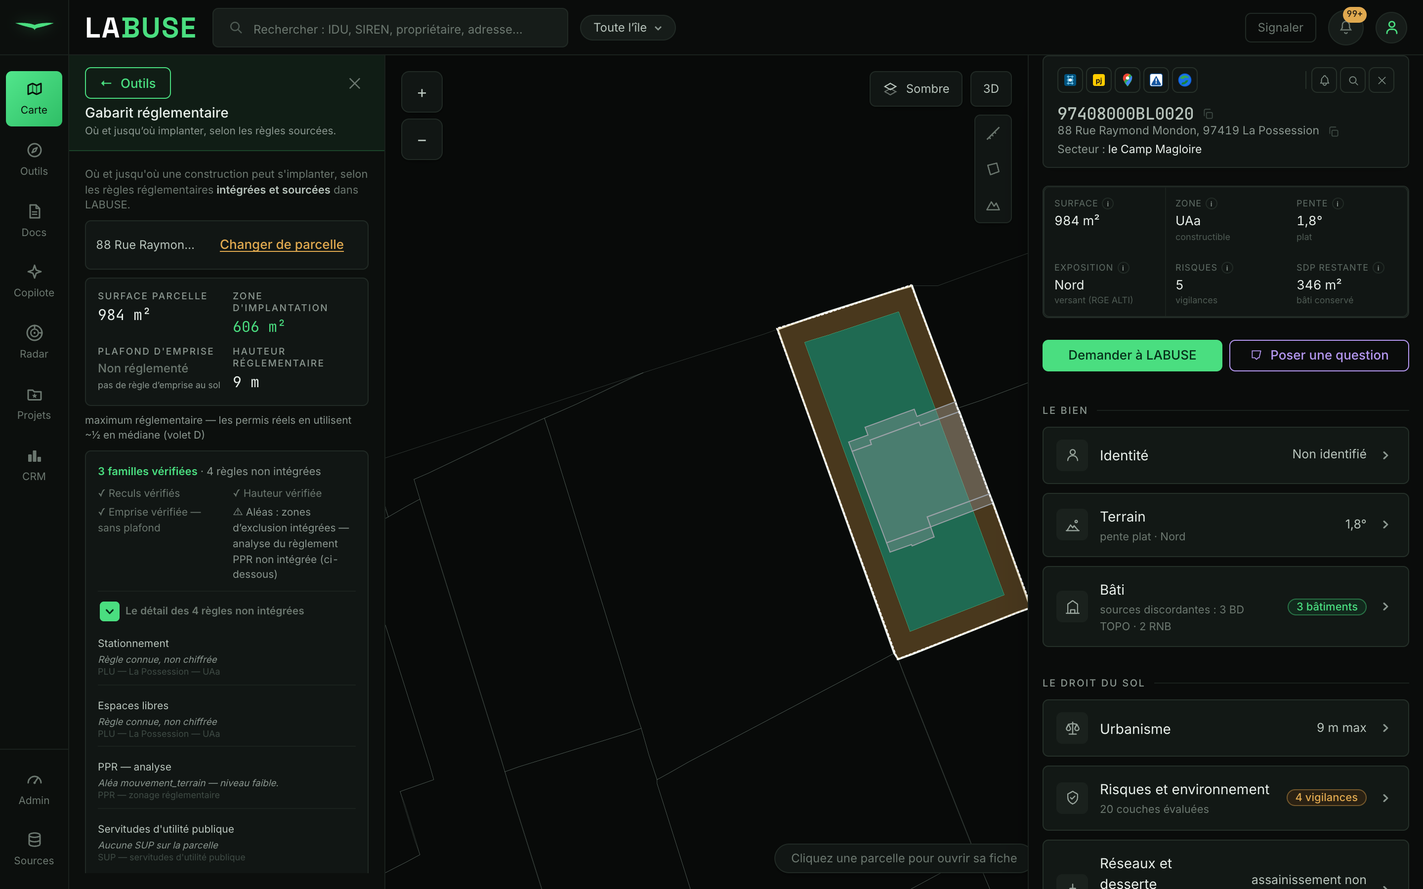
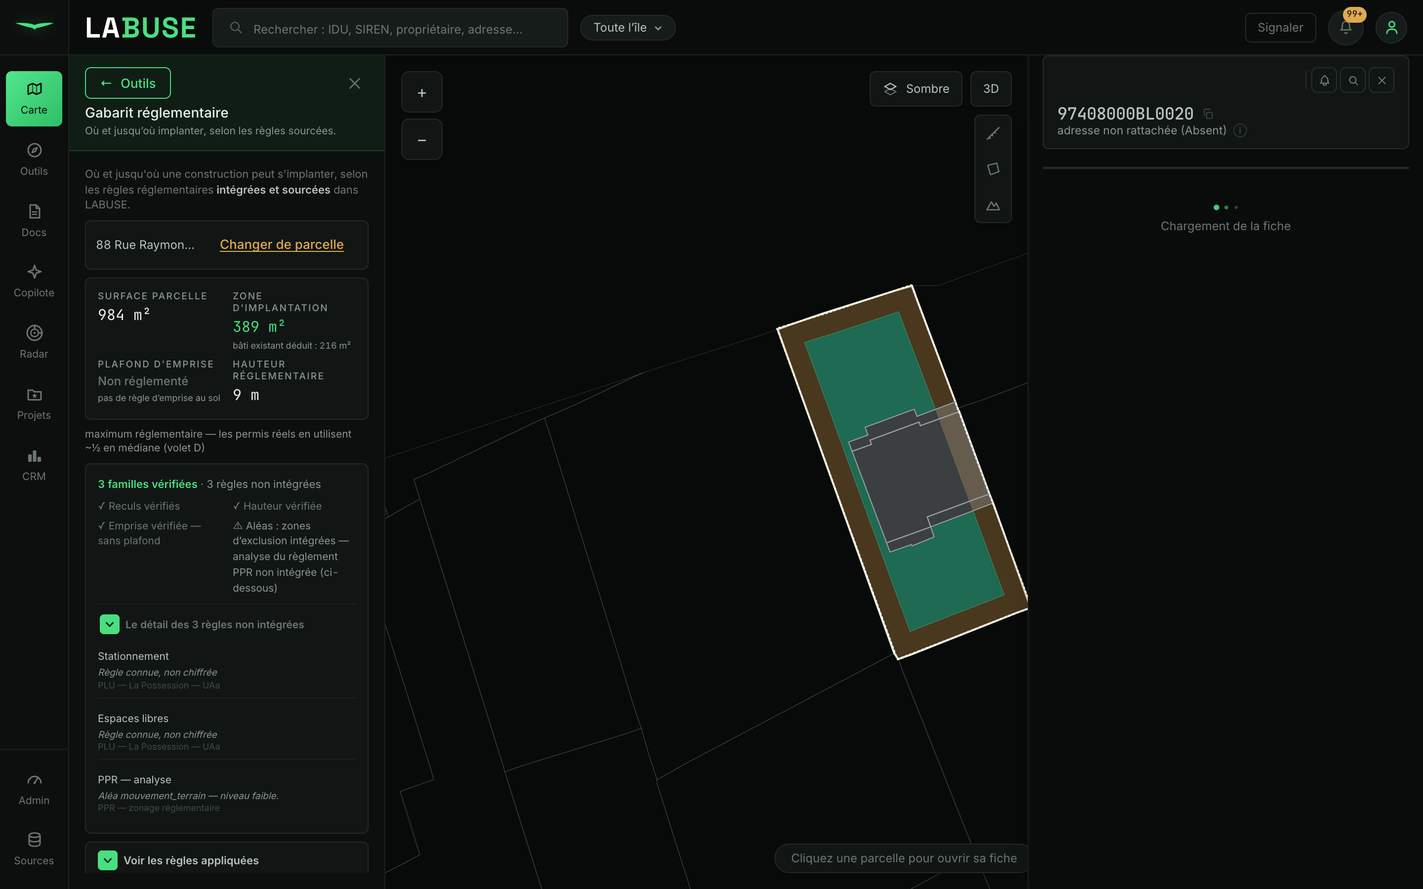
RECETTE-OUTILS-3 — Lot B : S7-S11 (Gabarit)
S7 — zone d'implantation DÉDUIT le bâti existant conservé (deduire_bati_de_zone,
     réf unique app 2D/3D + PDF p1/p3). Chiffre après déduction + « bâti déduit X m² »
     (nouveau gabarit_bati_deduit_m2, déclaré registre+robinet). CM1658 176→130, 46.
S8 — PDF p1 schéma dessine le bâti (_rings gère FeatureCollection).
S9 — 3D extrude la géométrie S7 (volume, pas plaque) — vérifié CM1658 + BL0020.
S10 — bâti découpé au contour : 36,5%→0% hors contour, zone∩bâti 26,3%→0%.
S11 — contrôle 3D (↺/↻ 45°, curseur inclinaison, ◎ recentrer) remplace la boussole,
      visible en 3D, charte ; panneau : Vue par défaut retiré, 2D+PDF côte à côte.

tsc + vitest 280 ; pytest gabarit/exports/registre/verrous 339.

diff --git a/frontend/src/components/map/MapView.tsx b/frontend/src/components/map/MapView.tsx
@@ -379,6 +379,37 @@ interface Measure {
 // M55-G point 13 — BOUTON DE CARTE MOMENTANÉ (zoom +/−…) : au clic, flash mint ~180 ms puis
 // retour — un feedback d'APPUI, pas un état. Les bascules à état (3D, fond, outils) gardent
 // leur état persistant comme feedback ; ce patron est pour les boutons sans état.
+// RECETTE-OUTILS-3 (S11) — bloc de contrôle 3D (remplace la boussole R14) : visible seulement en 3D,
+// dans un coin de la carte, DA de la charte. ↺/↻ = rotation 45° par clic ; curseur vertical =
+// inclinaison (vue de dessus 0° → vue rasante 60°) ; ◎ = recentrer sur la parcelle à l'angle de départ
+// (délègue au propriétaire de la caméra, le Gabarit, via `recentrer3d`). Ctrl + glisser reste actif.
+function Controle3D({ map }: { map: React.RefObject<maplibregl.Map | null> }) {
+  const [pitch, setPitch] = useState(45)
+  useEffect(() => {
+    const m = map.current
+    if (!m) return
+    const upd = () => setPitch(Math.round(m.getPitch()))
+    upd(); m.on('pitch', upd)
+    return () => { m.off('pitch', upd) }
+  }, [map])
+  const roter = (deg: number) => { const m = map.current; if (m) m.easeTo({ bearing: m.getBearing() + deg, duration: 300 }) }
+  const incliner = (p: number) => { const m = map.current; if (m) m.easeTo({ pitch: p, duration: 120 }); setPitch(p) }
+  const btn = 'flex h-8 w-8 items-center justify-center rounded-md border border-line-2 bg-bg-2 text-[16px] leading-none text-txt transition-colors duration-quick hover:border-mint hover:text-mint focus-visible:border-mint focus-visible:text-mint focus-visible:outline-none'
+  return (
+    <div data-controle-3d className="absolute bottom-4 left-4 z-20 flex flex-col items-center gap-1.5 rounded-lg border border-line-2 bg-bg-2/90 p-1.5 shadow-elev-1 backdrop-blur-sm">
+      <div className="flex gap-1.5">
+        <button data-c3d-rot-g className={btn} title="Tourner à gauche (45°)" onClick={() => roter(-45)}>↺</button>
+        <button data-c3d-rot-d className={btn} title="Tourner à droite (45°)" onClick={() => roter(45)}>↻</button>
+      </div>
+      <input data-c3d-pitch type="range" min={0} max={60} step={1} value={pitch} aria-label="Inclinaison de la vue"
+        title="Inclinaison : vue de dessus → vue rasante"
+        onChange={(e) => incliner(Number(e.target.value))}
+        className="my-0.5 h-24 w-8 cursor-pointer accent-mint [direction:rtl] [writing-mode:vertical-lr]" />
+      <button data-c3d-recentrer className={btn} title="Recentrer sur la parcelle" onClick={() => useApp.getState().recentrer3d()}>◎</button>
+    </div>
+  )
+}
+
 function BoutonCarte({ onClick, title, children }: { onClick: () => void; title: string; children: React.ReactNode }) {
   const [flash, setFlash] = useState(false)
   const timer = useRef<number | null>(null)
@@ -429,11 +460,6 @@ export function MapView() {
   // et on l'AFFICHE (« 3D indisponible : … ») au lieu d'un écran vide. null = pas d'erreur 3D.
   const [erreur3d, setErreur3d] = useState<string | null>(null)
   const terrain3dCleanup = useRef<(() => void) | null>(null)
-  // RECETTE-OUTILS-2 (R14) — boussole 3D : le contrôle NATIF de maplibre (NavigationControl avec
-  // `visualizePitch`), restylé à la charte (CSS), monté SEULEMENT en 3D, démonté au retour 2D.
-  // Glisser la boussole tourne/incline ; clic = retour au nord ; +/− = zoom natif. « Vue par défaut »
-  // (panneau Gabarit) reste le recadrage complet.
-  const boussole3d = useRef<maplibregl.NavigationControl | null>(null)
   const measureRef = useRef(measure)
   measureRef.current = measure
   const labelMarker = useRef<maplibregl.Marker | null>(null)
@@ -1265,28 +1291,18 @@ export function MapView() {
       }
       chargerBati()
       m.on('moveend', chargerBati)
-      // RECETTE-OUTILS-2 (R14) — monter la boussole native (si pas déjà là). Posée en BAS-GAUCHE : la
-      // fiche parcelle couvre le bas-droite et le bascule « Sombre / 3D » occupe le haut ; le bas-gauche
-      // de la carte (juste à droite du panneau Outils) est le coin dégagé. Restylée à la charte en CSS.
-      if (!boussole3d.current) {
-        boussole3d.current = new maplibregl.NavigationControl({ visualizePitch: true, showZoom: true, showCompass: true })
-        m.addControl(boussole3d.current, 'bottom-left')
-        try { m.getContainer().querySelector('.maplibregl-ctrl-bottom-left')?.classList.add('labuse-nav3d') } catch { /* noop */ }
-      }
+      // RECETTE-OUTILS-3 (S11) — la boussole native (R14) est REMPLACÉE par le bloc de contrôle 3D
+      // `Controle3D` (overlay React, coin de carte, visible seulement en 3D) : ↺/↻ 45°, curseur
+      // d'inclinaison, « Recentrer ». Plus de NavigationControl à monter/démonter ici.
     } else {
       m.setTerrain(null)
       m.easeTo({ pitch: 0, duration: 600 })
-      if (boussole3d.current) { try { m.removeControl(boussole3d.current) } catch { /* noop */ } boussole3d.current = null }
       if (m.getLayer('batiments-3d')) m.setLayoutProperty('batiments-3d', 'visibility', 'none')
       // CORRECTIFS-1 C1 — retour en 2D : on nettoie les écoutes 3D et le message d'erreur éventuel.
       setErreur3d(null)
       terrain3dCleanup.current?.(); terrain3dCleanup.current = null
     }
-    return () => {
-      m.off('moveend', chargerBati); terrain3dCleanup.current?.(); terrain3dCleanup.current = null
-      // R14 — démontage (sortie du composant) : ne JAMAIS laisser la boussole orpheline.
-      if (!useApp.getState().terrain3d && boussole3d.current) { try { m.removeControl(boussole3d.current) } catch { /* noop */ } boussole3d.current = null }
-    }
+    return () => { m.off('moveend', chargerBati); terrain3dCleanup.current?.(); terrain3dCleanup.current = null }
   }, [terrain3d, batiVisible])
 
   // ───────────────────────── couches / filtres / mode ─────────────────────────
@@ -1810,6 +1826,8 @@ export function MapView() {
           </BoutonCarte>
         ))}
       </div>
+      {/* RECETTE-OUTILS-3 (S11) — bloc de contrôle 3D (↺/↻ · inclinaison · recentrer), seulement en 3D. */}
+      {terrain3d && <Controle3D map={map} />}
       <MapToolbar />
       {/* M12 C6/C7 : UN SEUL panneau de légendes (verdict replié + zonage + 50 pas +
           équipements), cohabitant sans se recouvrir. La légende « Équipements » a quitté son

diff --git a/frontend/src/components/outils/Gabarit.tsx b/frontend/src/components/outils/Gabarit.tsx
@@ -229,6 +229,11 @@ export function Gabarit() {
     if (bb) m.fitBounds(bb, { padding: 70, bearing: 0, pitch: 45, duration: 600, maxZoom: 18 })
     else m.easeTo({ bearing: 0, pitch: 45, duration: 600 })
   }
+  // RECETTE-OUTILS-3 (S11) — le bouton « Recentrer » (◎) du bloc de contrôle 3D de la carte demande au
+  // Gabarit (propriétaire de la caméra) de reprendre la vue de départ : même recadrage que « Vue par
+  // défaut », désormais déclenché par la carte.
+  const recentrer3dNonce = useApp((s) => s.recentrer3dNonce)
+  useEffect(() => { if (recentrer3dNonce && terrain3d) vueParDefaut() }, [recentrer3dNonce])   // eslint-disable-line react-hooks/exhaustive-deps
 
   // RECETTE-OUTILS-1 (point 31) — lever la contradiction « ✓ Risques intégrés » vs « PPR — analyse »
   // listé parmi les règles NON intégrées : si une règle PPR est non intégrée, la famille « risques » ne
@@ -330,7 +335,10 @@ export function Gabarit() {
               ? <Num label="Surface parcelle" value={cadastreM2} unit="m²"
                   sub={`dont ${fmtInt(res.surfaceParcelleM2)} m² en ${raccZone?.code ?? 'zone U'} (${pctPortion} %)`} />
               : <Num label="Surface parcelle" value={res.surfaceParcelleM2} unit="m²" />}
-            <Num label="Zone d'implantation" value={res.zoneImplantationM2} unit="m²" accent />
+            {/* RECETTE-OUTILS-3 (S7) — « Zone d'implantation » = valeur APRÈS déduction du bâti existant ;
+                juste en dessous l'emprise retranchée (si bâti conservé). */}
+            <Num label="Zone d'implantation" value={res.zoneImplantationM2} unit="m²" accent
+              sub={res.batiDeduitM2 ? `bâti existant déduit : ${fmtInt(res.batiDeduitM2)} m²` : null} />
             <Num label="Plafond d'emprise" value={res.plafondEmpriseM2} unit="m²"
               statusLabel={res.plafondEmpriseStatus === 'absent' ? 'Non réglementé' : null}
               sub={res.plafondEmpriseStatus === 'absent' ? 'pas de règle d’emprise au sol' : null} />
@@ -449,23 +457,19 @@ export function Gabarit() {
               qui déborde) était ÉCRASÉ par flex-shrink → hauteur 15 px au lieu des 32 px de la DA
               (« hors DA, mal aligné »). Avec shrink-0 il reprend sa hauteur de bouton standard,
               aligné à gauche comme les cartes au-dessus. */}
-          <div className="flex flex-wrap items-center gap-2">
+          {/* RECETTE-OUTILS-3 (S11) — « Vue par défaut » RETIRÉ (le « Recentrer » du bloc de contrôle 3D
+              de la carte en tient lieu). « Revenir en 2D » et « Exporter en PDF » CÔTE À CÔTE, même ligne
+              (grille 2 colonnes). L'orientation initiale se reprend par le ◎ du bloc 3D sur la carte. */}
+          <div className="grid grid-cols-2 gap-2">
             <Bouton niveau="secondaire" ton="vert" data-gabarit-3d
-              onClick={() => setTerrain3d(!terrain3d)} className="shrink-0 self-start">
+              onClick={() => setTerrain3d(!terrain3d)} className="w-full justify-center">
               {terrain3d ? 'Revenir en 2D' : 'Voir en 3D'}
             </Bouton>
-            {/* RECETTE-OUTILS-1 (point 33) — en 3D : bouton « Vue par défaut » (recentre sur la parcelle,
-                orientation initiale) + mention « Ctrl + glisser pour tourner ». */}
-            {terrain3d && (
-              <Bouton niveau="secondaire" ton="vert" data-gabarit-vue-defaut onClick={vueParDefaut} className="shrink-0 self-start">
-                Vue par défaut
-              </Bouton>
-            )}
             {/* RECETTE-OUTILS-1 (point 34 / T6) — « Exporter en PDF » = document « Gabarit » de Docs
                 (même générateur back `/gabarit/{idu}.pdf`). Absent si le calcul est incomplet. */}
             {target && res?.status === 'ok' && (
               <Bouton niveau="secondaire" ton="vert" data-gabarit-export
-                disabled={enCours != null} onClick={() => ouvrir(docGabaritUrl(target), 'gabarit')} className="shrink-0 self-start">
+                disabled={enCours != null} onClick={() => ouvrir(docGabaritUrl(target), 'gabarit')} className="w-full justify-center">
                 Exporter en PDF
               </Bouton>
             )}

diff --git a/frontend/src/store/useApp.ts b/frontend/src/store/useApp.ts
@@ -480,6 +480,10 @@ interface AppState {
   terrain3d: boolean
   toggleTerrain: () => void
   setTerrain3d: (v: boolean) => void   // RETOURS-14 P4 — le relief 3D se choisit dans un menu (voir MapToolbar)
+  // RECETTE-OUTILS-3 (S11) — le contrôle 3D « Recentrer » (coin de carte) demande au propriétaire de la
+  // caméra (le Gabarit) de remettre la vue sur la parcelle à l'angle de départ. Nonce = re-déclenchable.
+  recentrer3dNonce: number
+  recentrer3d: () => void
   // RETOURS-13 P4 — le bâti extrudé est OPTIONNEL en 3D (chip « Bâtiments »). État de SESSION
   // (pas en base). On par défaut : passer en 3D montre relief + bâti comme avant. Off → relief seul
   // (le bâti reste à plat : l'empreinte 2D grise du Gabarit demeure ; carte principale = pas d'extrusion).
@@ -948,6 +952,8 @@ export const useApp = create<AppState>((set, get) => ({
   terrain3d: false,
   toggleTerrain: () => set((s) => ({ terrain3d: !s.terrain3d })),
   setTerrain3d: (v) => set({ terrain3d: v }),   // RETOURS-14 P4 — menu Relief (2D / relief / relief+bâti)
+  recentrer3dNonce: 0,                                                   // RECETTE-OUTILS-3 (S11)
+  recentrer3d: () => set((s) => ({ recentrer3dNonce: s.recentrer3dNonce + 1 })),
   batiVisible: true,   // RETOURS-13 P4 — bâti extrudé visible par défaut en 3D
 
   setBatiVisible: (v) => set({ batiVisible: v }),

diff --git a/frontend/src/lib/api.ts b/frontend/src/lib/api.ts
@@ -667,6 +667,7 @@ export interface GabaritResult {
   // FRONT-CHIFFRES-2 (F57/F50) — % de la parcelle en zone dominante « à cheval », servi (plus recalculé au front).
   pctPortionZone?: number | null
   zoneImplantationM2?: number | null
+  batiDeduitM2?: number | null   // RECETTE-OUTILS-3 (S7) — emprise bâti retranchée de la zone d'implantation
   plafondEmpriseM2?: number | null
   plafondEmpriseStatus?: string | null   // 'absent' → « Non réglementé »
   hauteurReglementaireM?: number | null

diff --git a/src/labuse/gabarit/builder.py b/src/labuse/gabarit/builder.py
@@ -582,3 +582,56 @@ def build_gabarit_input(session: Session, idu: str) -> Optional[BuildResult]:
         sources=sources,
     )
     return BuildResult(input=inp, blocking=blocking, raccordement=racc)
+
+
+def deduire_bati_de_zone(result) -> None:
+    """RECETTE-OUTILS-3 (S7 / S10) — rend la zone d'implantation et le bâti COHÉRENTS et UNIQUES pour
+    l'app (2D/3D) et le PDF (p1 schéma, p3 3D). Deux opérations, in place sur un `GabaritResult` servi :
+
+      · S10 — le bâti existant est DÉCOUPÉ au contour cadastral (il débordait : ex. 36 % sur « 36 Rue
+        des Jacarandas », bâti voisin / emprise BD TOPO imprécise) — chaque bâtiment garde sa hauteur ;
+      · S7 (décision Vic) — la zone d'implantation DÉDUIT l'emprise du bâti conservé (zone − bâti) :
+        `zoneImplantationM2` devient la valeur APRÈS déduction, `batiDeduitM2` porte l'emprise retranchée.
+
+    Best-effort : toute erreur géométrique laisse le résultat intact (jamais un document cassé). Aires en
+    mètres (CRS métrique 2975), géométries re-servies en WGS84."""
+    if result is None or getattr(result, "status", None) != "ok":
+        return
+    z_gj = getattr(result, "zoneImplantationGeoJSON", None)
+    b_fc = getattr(result, "batiExistantGeoJSON", None)
+    if not z_gj or not b_fc or not (b_fc.get("features") if isinstance(b_fc, dict) else None):
+        return
+    try:
+        from shapely.geometry import mapping, shape
+        from shapely.ops import unary_union
+        from shapely.validation import make_valid
+        from ._geom import to_metric, to_wgs
+        contour_m = make_valid(to_metric(shape(result.contourGeoJSON))) if result.contourGeoJSON else None
+        zone_m = make_valid(to_metric(shape(z_gj)))
+        if zone_m.is_empty or zone_m.area <= 0:
+            return
+        feats, batis_m = [], []
+        for f in b_fc["features"]:
+            if not f.get("geometry"):
+                continue
+            gm = make_valid(to_metric(shape(f["geometry"])))
+            if contour_m is not None:
+                gm = gm.intersection(contour_m)           # S10 — découpe au contour
+            if gm.is_empty:
+                continue
+            batis_m.append(gm)
+            feats.append({"type": "Feature", "properties": f.get("properties") or {},
+                          "geometry": mapping(to_wgs(gm))})
+        if not batis_m:
+            return
+        bati_union = unary_union(batis_m)
+        zone_deduit = zone_m.difference(bati_union)        # S7 — déduction du bâti
+        if zone_deduit.is_empty:
+            return
+        brute_m2, deduit_m2 = round(zone_m.area), round(zone_deduit.area)
+        result.batiExistantGeoJSON = {"type": "FeatureCollection", "features": feats}
+        result.zoneImplantationGeoJSON = mapping(to_wgs(zone_deduit))
+        result.zoneImplantationM2 = deduit_m2
+        result.batiDeduitM2 = max(0, brute_m2 - deduit_m2)
+    except Exception:  # noqa: BLE001 — géométrie dégénérée : on garde le résultat non déduit
+        pass

diff --git a/src/labuse/registre/donnees.py b/src/labuse/registre/donnees.py
@@ -101,12 +101,19 @@ DONNEES: dict[str, Donnee] = {
  # (démo CDC §9) ; réel per-parcelle dès que la classification des limites arrive (GABARIT-2).
  "gabarit_implantation_m2": C("Zone d'implantation réglementaire", "m²", "parcelle",
     "surface de la zone où une construction peut s'implanter = parcelle − reculs (voie/"
-    "séparatives) − exclusions réglementaires (PPR rouge). Calcul géospatial pur, jamais "
-    "estimé. Servi per-parcelle (GABARIT-2 : classification des limites voie/séparative par "
-    "arête = adjacence cadastre + BD TOPO, mesurée 0 faux/70).",
+    "séparatives) − exclusions réglementaires (PPR rouge) − emprise du bâti existant conservé "
+    "(RECETTE-OUTILS-3 S7). Calcul géospatial pur, jamais estimé. Servi per-parcelle (GABARIT-2 : "
+    "classification des limites voie/séparative par arête = adjacence cadastre + BD TOPO, mesurée 0 faux/70).",
     moteur="gabarit", calcul="moteur",
     fonction="src/labuse/gabarit/engine.py:compute_gabarit",
     reservoirs=("cadastre_api_carto", "gpu_plu_api_carto",), portee="live"),
+ "gabarit_bati_deduit_m2": C("Bâti existant déduit", "m²", "parcelle",
+    "RECETTE-OUTILS-3 (S7, décision Vic) — emprise du bâti existant conservé RETRANCHÉE de la zone "
+    "d'implantation (zone ∩ bâti, après découpe du bâti au contour cadastral). Calcul géospatial pur "
+    "(shapely, CRS 2975), jamais estimé. None s'il n'y a pas de bâti à déduire.",
+    moteur="gabarit", calcul="moteur",
+    fonction="src/labuse/gabarit/builder.py:deduire_bati_de_zone",
+    reservoirs=("cadastre_api_carto", "bd_topo",), portee="live"),
  "gabarit_emprise_plafond_m2": C("Plafond d'emprise", "m²", "parcelle",
     "plafond réglementaire d'emprise au sol = surface parcelle × CES / 100. Calculé À PART "
     "de la zone d'implantation (jamais min()).",

diff --git a/src/labuse/exports/robinet_fiche.py b/src/labuse/exports/robinet_fiche.py
@@ -795,6 +795,10 @@ def _gabarit(db, idu: str) -> dict:
             from ..api.gabarit import _bati_existant
             if res.status == "ok" and res.batiExistantGeoJSON is None:
                 res.batiExistantGeoJSON = _bati_existant(db, idu)
+            # RECETTE-OUTILS-3 (S7/S10) — MÊME déduction/découpe que l'app : la zone d'implantation du
+            # document (chiffre + schéma) déduit le bâti, le bâti est découpé au contour. Chiffre = app.
+            from ..gabarit.builder import deduire_bati_de_zone
+            deduire_bati_de_zone(res)
         except Exception:  # noqa: BLE001
             pass
         if res.status != "ok":
@@ -825,6 +829,7 @@ def _gabarit(db, idu: str) -> dict:
         if non_int:
             txt += " · non modélisé : " + ", ".join(non_int)
         out.update(served=True, zone_m2=res.zoneImplantationM2, couverture=txt,
+                   bati_deduit_m2=res.batiDeduitM2,   # S7 — emprise bâti retranchée (None si aucune)
                    plafond=("Non réglementé" if res.plafondEmpriseStatus == "absent" else res.plafondEmpriseM2),
                    hauteur=("Non chiffrée (prospect)" if res.hauteurStatus == "not_integrated"
                             else res.hauteurReglementaireM),
@@ -839,6 +844,13 @@ def _gabarit(db, idu: str) -> dict:
 def _c_gab_zone(db, idu, f):
     g = _gabarit(db, idu)
     return g.get("zone_m2") if g["served"] else None
+
+
+@extracteur("gabarit_bati_deduit_m2")
+def _c_gab_bati_deduit(db, idu, f):
+    # RECETTE-OUTILS-3 (S7) — emprise du bâti existant retranchée de la zone d'implantation (None si 0).
+    g = _gabarit(db, idu)
+    return g.get("bati_deduit_m2") if g["served"] else None
 
 
 @extracteur("gabarit_emprise_plafond_m2")

diff --git a/src/labuse/exports/blocs/gabarit.py b/src/labuse/exports/blocs/gabarit.py
@@ -9,8 +9,8 @@ from ..lignes import ligne, pied
 from ..registre_fmt import fmt_m, fmt_m2, fmt_pct
 from ..rendu import esc, note, section, table_kv, verdict
 
-IDS = ("gabarit_implantation_m2", "gabarit_emprise_plafond_m2", "gabarit_hauteur_m",
-       "gabarit_couverture_verdict", "gabarit_plan_2d")
+IDS = ("gabarit_implantation_m2", "gabarit_bati_deduit_m2", "gabarit_emprise_plafond_m2",
+       "gabarit_hauteur_m", "gabarit_couverture_verdict", "gabarit_plan_2d")
 
 
 def _m2_ou_texte(v):
@@ -70,7 +70,10 @@ def rendu(valeurs, ctx=None) -> str:
         # le plan 2D est un fragment SVG déjà composé par le moteur (gabarit_svg) — embarqué tel quel.
         corps += f'<div class="plan2d">{plan.valeur}</div>'
     lignes = [
+        # RECETTE-OUTILS-3 (S7) — « Zone d'implantation » = valeur APRÈS déduction du bâti ; juste en
+        # dessous, l'emprise de bâti retranchée (ligne omise s'il n'y a rien à déduire).
         ligne(valeurs, "Zone d'implantation", "gabarit_implantation_m2", _m2_ou_texte),
+        ligne(valeurs, "dont bâti existant déduit", "gabarit_bati_deduit_m2", _m2_ou_texte),
         ligne(valeurs, "Plafond d'emprise", "gabarit_emprise_plafond_m2", _m2_ou_texte),
         ligne(valeurs, "Hauteur réglementaire", "gabarit_hauteur_m", _m_ou_texte),
     ]

diff --git a/src/labuse/api/gabarit.py b/src/labuse/api/gabarit.py
@@ -139,6 +139,10 @@ def gabarit_detail(idu: str, db: Session = Depends(get_db)) -> GabaritResult:
                                    + (f"en zone {_zn}" if _zn else "en zone constructible")
                                    + " (parcelle à cheval).")
     res.batiExistantGeoJSON = _bati_existant(db, idu)
+    # RECETTE-OUTILS-3 (S7/S10) — bâti découpé au contour + zone d'implantation déduite du bâti conservé.
+    # Référence UNIQUE lue par l'app (2D/3D) ET le PDF (le PDF rappelle la même fonction, cf. construire_gabarit).
+    from ..gabarit.builder import deduire_bati_de_zone
+    deduire_bati_de_zone(res)
     # CHASSE-DOCS-FIX-1 (E-07) — zone d'implantation NULLE (terrain exigu : rien ne passe après reculs) :
     # le plafond d'emprise et la hauteur n'ont pas d'objet (ils donneraient un gabarit chiffré sur un
     # terrain où rien ne s'implante). On les masque et on le DIT.

diff --git a/src/labuse/gabarit/contract.py b/src/labuse/gabarit/contract.py
@@ -151,6 +151,10 @@ class GabaritResult(BaseModel):
     # présents seulement si status == "ok"
     surfaceParcelleM2: Optional[float] = None
     zoneImplantationM2: Optional[float] = None
+    # RECETTE-OUTILS-3 (S7, décision Vic) — la zone d'implantation DÉDUIT l'emprise du bâti existant
+    # conservé : `zoneImplantationM2` est la valeur APRÈS déduction, `batiDeduitM2` l'emprise retranchée
+    # (m²). None si pas de bâti à déduire. Appliqué au service (app + PDF lisent la même géométrie).
+    batiDeduitM2: Optional[float] = None
     # FRONT-CHIFFRES-2 (F57/F50) — % de la parcelle dans la zone dominante quand elle est « à cheval »
     # (round(portion / cadastre × 100)), calculé UNE fois au service. Deux sites front (GabaritLine +
     # panneau Gabarit) le recomputaient à l'identique → divergence possible ; ils lisent ce champ. None si non « à cheval ».

diff --git a/src/labuse/gabarit/plan_svg.py b/src/labuse/gabarit/plan_svg.py
@@ -20,8 +20,18 @@ C_BATI = "#7c828a"       # EXPORTS-FIX-1 F5 — bâti existant (GABARIT-6, comme
 def _rings(geom: Optional[dict]) -> Iterator[list]:
     if not geom:
         return
-    co = geom.get("coordinates")
     t = geom.get("type")
+    # RECETTE-OUTILS-3 (S8) — le bâti existant est servi en FeatureCollection : _rings l'ignorait
+    # (ni Polygon ni MultiPolygon) → le schéma 2D du PDF n'affichait AUCUN bâtiment alors que la légende
+    # l'annonçait. On déroule donc aussi Feature / FeatureCollection.
+    if t == "FeatureCollection":
+        for f in geom.get("features") or []:
+            yield from _rings(f.get("geometry"))
+        return
+    if t == "Feature":
+        yield from _rings(geom.get("geometry"))
+        return
+    co = geom.get("coordinates")
     if t == "Polygon":
         for r in co or []:
             yield r

diff --git a/src/labuse/exports/builder.py b/src/labuse/exports/builder.py
@@ -610,6 +610,13 @@ def construire_gabarit(db, idu: str, *, jour: date | None = None) -> ResultatDoc
             gr.batiExistantGeoJSON = _bati_existant(db, idu)
     except Exception:  # noqa: BLE001 — le bâti de contexte n'est jamais un bloqueur du document
         pass
+    # RECETTE-OUTILS-3 (S7/S10) — MÊME déduction/découpe que l'app : la zone d'implantation du PDF (p1
+    # schéma, p3 3D) déduit le bâti et le bâti est découpé au contour. Référence géométrique UNIQUE.
+    try:
+        from ..gabarit.builder import deduire_bati_de_zone
+        deduire_bati_de_zone(gr)
+    except Exception:  # noqa: BLE001
+        pass
     valeurs = collecte(db, idu, sorted(bloc_gabarit.IDS), fiche={})
     numero = numeros.numero_rapport("gabarit", idu, j)
     cart = _cart("gabarit", idu, idu, numero, j)
